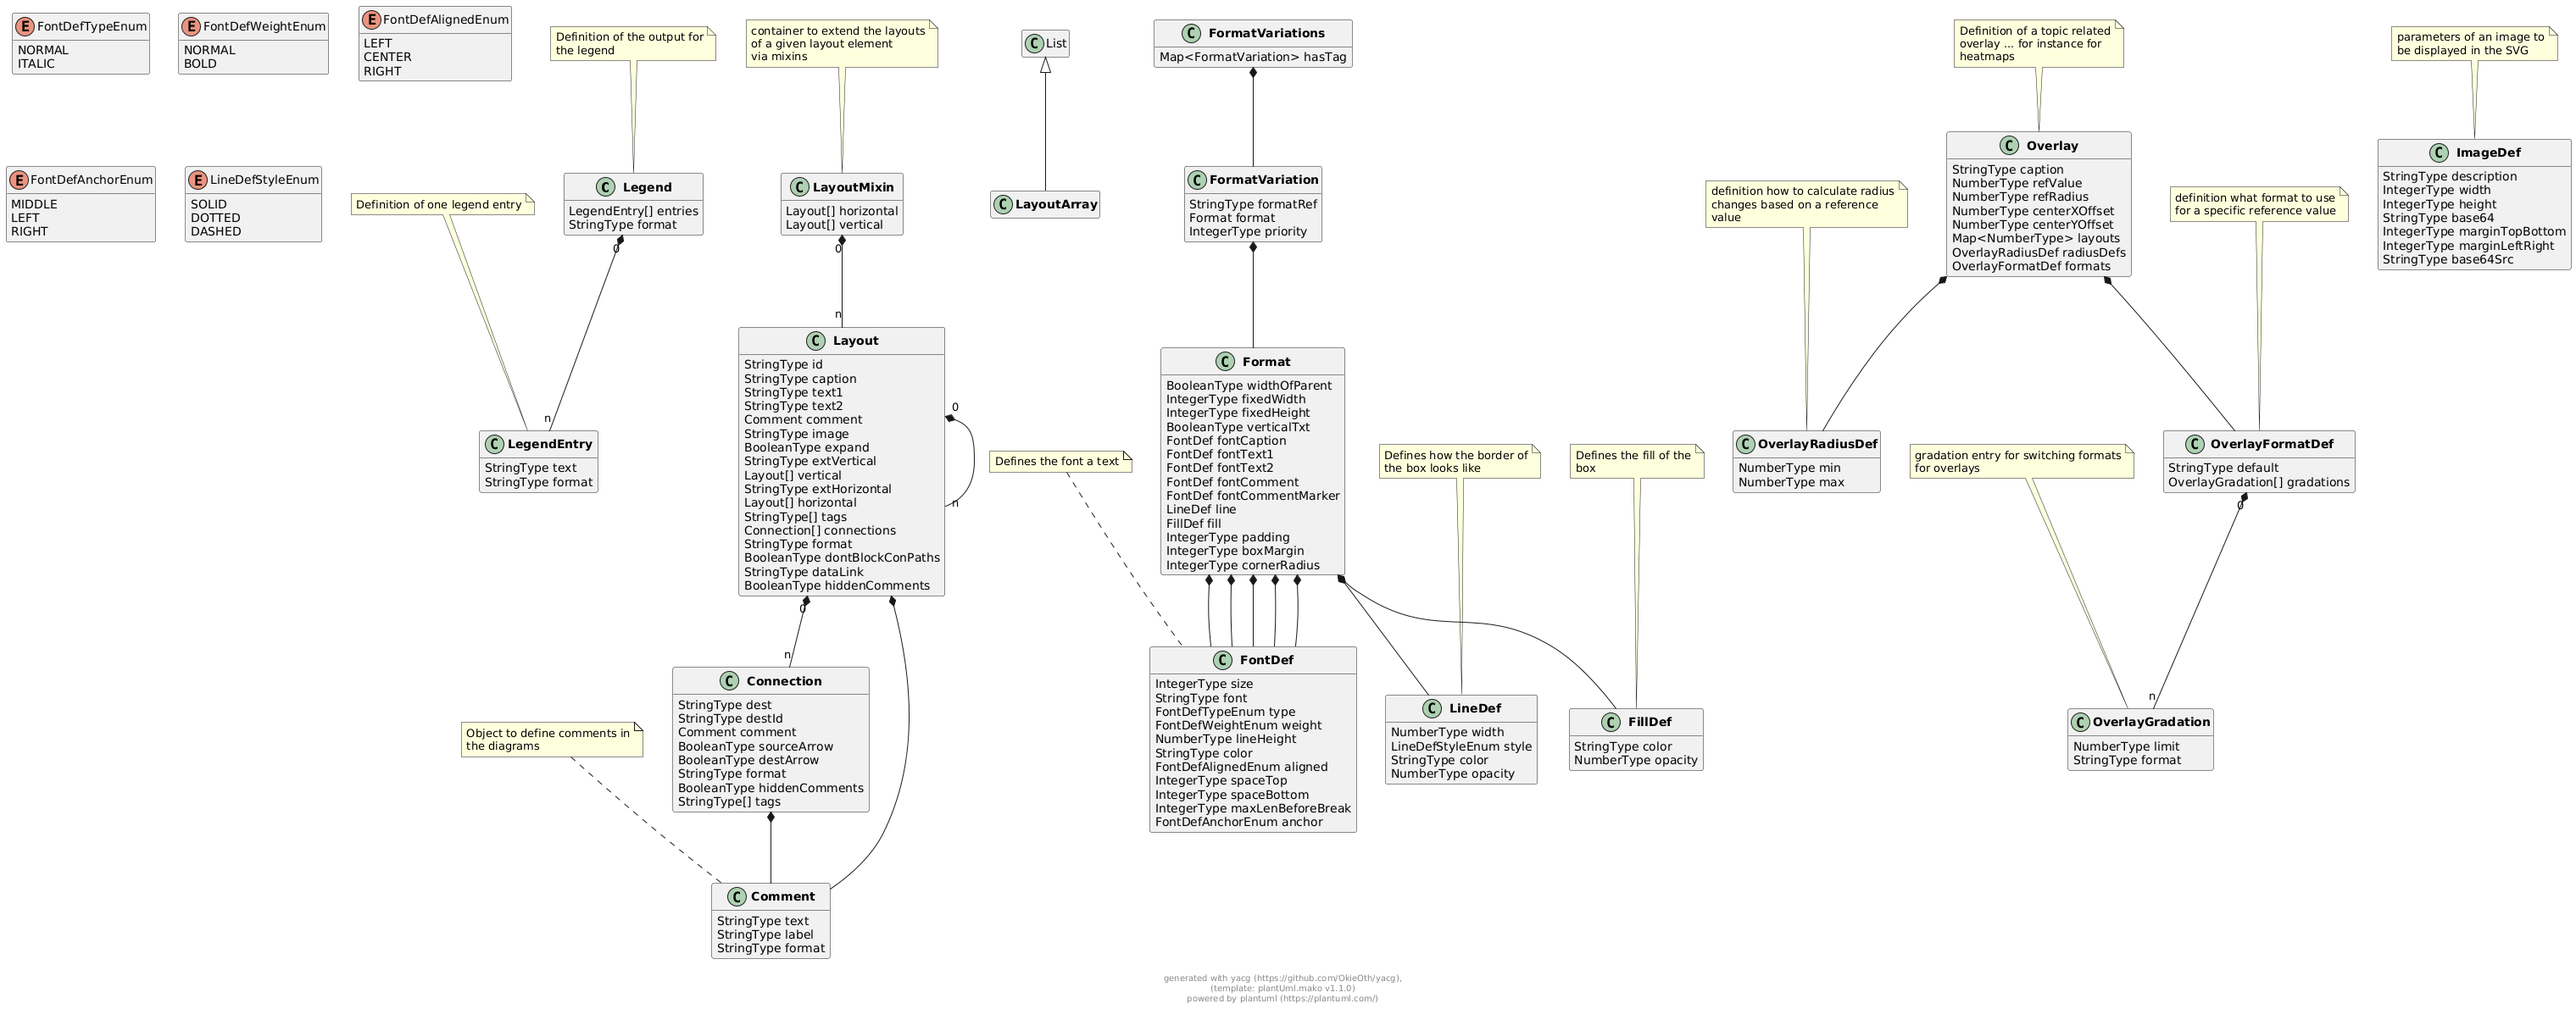
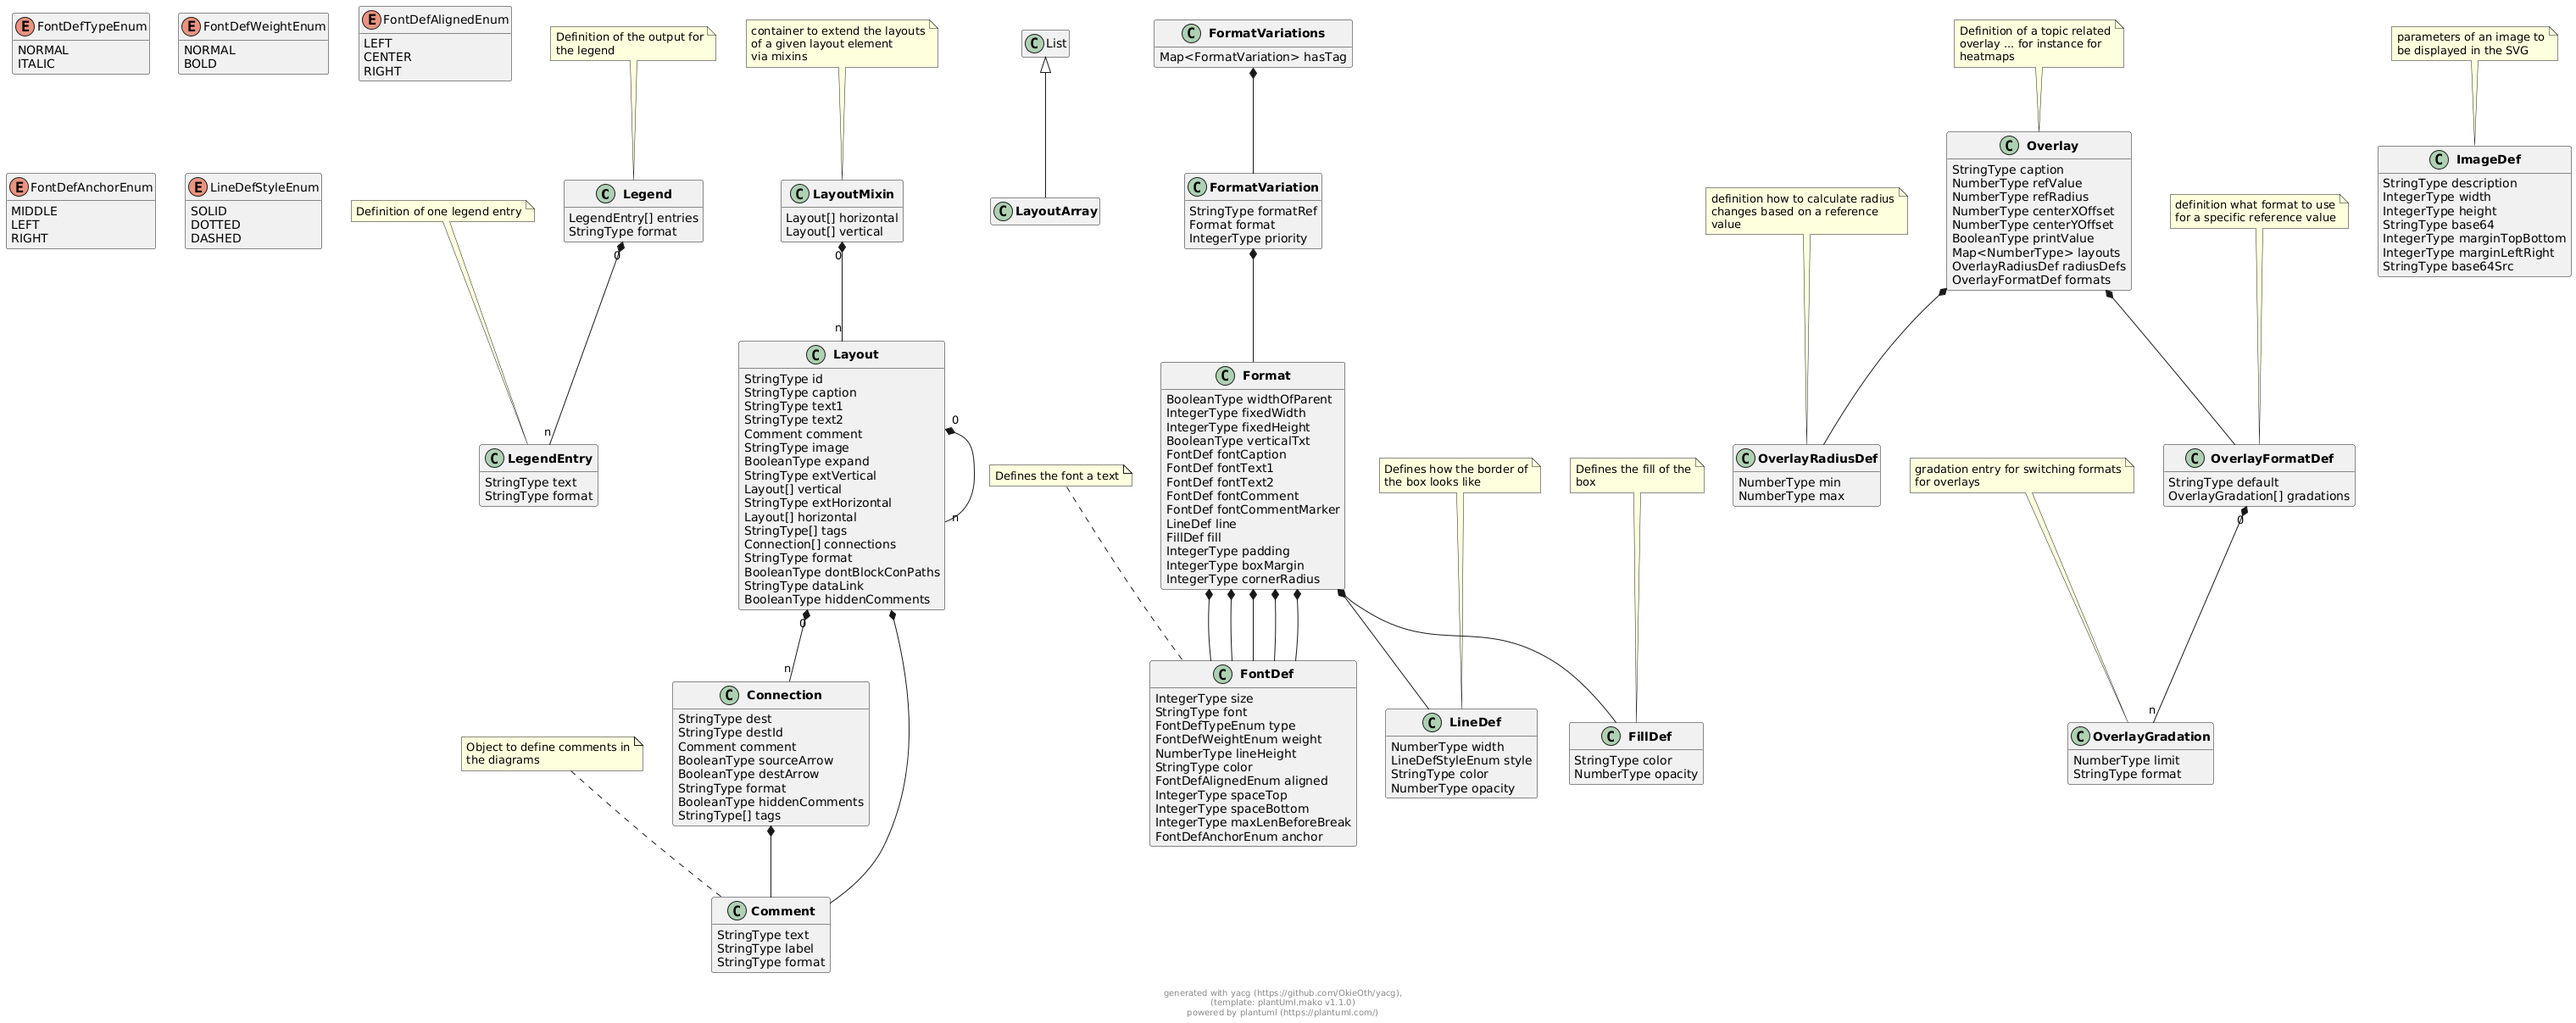
improved overlay handling in boxes

diff --git a/ui/html/js/main.js b/ui/html/js/main.js
@@ -1659,7 +1659,7 @@ async function loadSVGFromWasm() {
     // Fetch boxes.wasm with streaming fallback
     let resp;
     try {
-        resp = await fetch(window.getBasePath() + "/wasm/boxes_0.10.0.wasm", {
+        resp = await fetch(window.getBasePath() + "/wasm/boxes_0.10.1.wasm", {
             cache: "no-cache",
         });
         if (!resp.ok) throw new Error("HTTP " + resp.status);

diff --git a/ui/html/index.html b/ui/html/index.html
@@ -10,7 +10,7 @@
         </script>
         <script>
             window.uiVersion = "v1";
-            window.renderingVersion = "v0.10.0";
+            window.renderingVersion = "v0.10.1";
         </script>
 
         <script src="./js/htmx_1.9.12.min.js"></script>

diff --git a/pkg/types/boxes/boxestype_impl.go b/pkg/types/boxes/boxestype_impl.go
@@ -523,19 +523,25 @@ func (doc *BoxesDocument) DrawComments(drawing types.Drawing, c types.TextDimens
 func (doc *BoxesDocument) DrawOverlays(drawing types.Drawing, c types.TextDimensionCalculator) error {
 	if len(doc.Overlays) > 0 {
 		for i := range doc.Overlays {
-			for j := range doc.Overlays[i].Layouts {
+			o := doc.Overlays[i]
+			for j := range o.Layouts {
 				oe := doc.Overlays[i].Layouts[j]
-				drawing.DrawCircleWithBorder(oe.X, oe.Y, int(oe.Radius), oe.Format.Fill, oe.Format.Line)
-				label := fmt.Sprintf("%d", int(oe.Value))
-				size := int(oe.Radius / 5)
-				if size < 14 {
-					size = 14
+				if oe.Format.Fill == nil || oe.Format.Line == nil {
+					continue
 				}
-				labelFont := types.InitFontDef(nil, "sans", size, true, false, 0)
-				labelFont.Color = *oe.Format.Fill.Color
-				labelFont.Anchor = types.FontDefAnchorEnum_middle
-				_, h := c.Dimensions(label, &labelFont)
-				drawing.DrawText(label, oe.X, oe.Y-(h/2), 0, &labelFont)
+				drawing.DrawCircleWithBorder(oe.X, oe.Y, int(oe.Radius), oe.Format.Fill, oe.Format.Line)
+				if o.PrintValue {
+					label := fmt.Sprintf("%d", int(oe.Value))
+					size := int(oe.Radius / 5)
+					if size < 14 {
+						size = 14
+					}
+					labelFont := types.InitFontDef(nil, "sans", size, true, false, 0)
+					labelFont.Color = *oe.Format.Fill.Color
+					labelFont.Anchor = types.FontDefAnchorEnum_middle
+					_, h := c.Dimensions(label, &labelFont)
+					drawing.DrawText(label, oe.X, oe.Y-(h/2), 0, &labelFont)
+				}
 			}
 		}
 	}

diff --git a/pkg/boxesimpl/boxesimpl.go b/pkg/boxesimpl/boxesimpl.go
@@ -283,7 +283,40 @@ func FilterBoxes(layout boxes.Boxes, defaultDepth int, expanded, blacklisted []s
 	b, truncatedObjects := truncBoxes(layout.Boxes, 0, defaultDepth, expanded, blacklisted)
 	adjustTruncated(&b, truncatedObjects)
 	filteredBoxes.Boxes = b
+	adjustOverlaysWithTruncated(filteredBoxes, truncatedObjects)
 	return *filteredBoxes
+}
+
+func adjustOverlaysWithTruncated(filteredBoxes *boxes.Boxes, truncatedObjects map[string]TruncatedInfo) {
+	for i := range filteredBoxes.Overlays {
+		o := &filteredBoxes.Overlays[i]
+		newOverlays := make(map[string]float64, 0)
+		for k, v := range o.Layouts {
+			foundId := getTruncatedObject(k, truncatedObjects)
+			if foundId == "" {
+				// the layout elem still exist ...
+				if existing, ok := newOverlays[k]; ok {
+					v += existing
+				}
+				newOverlays[k] = v
+			} else {
+				if existing, ok := newOverlays[foundId]; ok {
+					v += existing
+				}
+				newOverlays[foundId] = v
+			}
+		}
+		o.Layouts = newOverlays
+	}
+}
+
+func getTruncatedObject(text string, truncatedObjects map[string]TruncatedInfo) string {
+	for _, v := range truncatedObjects {
+		if v.truncated.Id == text || v.truncated.Caption == text {
+			return v.newId
+		}
+	}
+	return ""
 }
 
 func DrawBoxesFilteredExt(

diff --git a/pkg/types/boxes/overlays.go b/pkg/types/boxes/overlays.go
@@ -61,14 +61,16 @@ func (doc *BoxesDocument) initOverlayForLayout(l *LayoutElement, overlay *DocOve
 }
 
 func (doc *BoxesDocument) initOverlayXY(l *LayoutElement, overlay *DocOverlay, overlayEntry *OverlayEntry) {
-	overlayEntry.X = l.X + (l.Width / 2)
-	overlayEntry.Y = l.Y + (l.Height / 2)
+	halfWidth := (l.Width / 2)
+	halfHeight := (l.Height / 2)
+	overlayEntry.X = l.X + halfWidth
+	overlayEntry.Y = l.Y + halfHeight
 	if overlay.CenterXOffset != 0 {
-		diff := float64((l.CenterX - l.X)) * overlay.CenterXOffset
+		diff := float64(halfWidth) * overlay.CenterXOffset
 		overlayEntry.X += int(diff)
 	}
 	if overlay.CenterYOffset != 0 {
-		diff := float64((l.CenterY - l.Y)) * overlay.CenterYOffset
+		diff := float64(halfHeight) * overlay.CenterYOffset
 		overlayEntry.Y += int(diff)
 	}
 }
@@ -99,8 +101,6 @@ func (doc *BoxesDocument) initOverlayFormat(overlay *DocOverlay, overlayEntry *O
 	if overlay.Formats.Default != "" {
 		f, ok := doc.Formats[overlay.Formats.Default]
 		if !ok {
-			f = doc.getDefaultOverlayFormat()
-		} else {
 			f = doc.getDefaultOverlayFormat()
 		}
 		format = f

diff --git a/pkg/types/boxes/boxesdoc.go b/pkg/types/boxes/boxesdoc.go
@@ -627,6 +627,9 @@ type DocOverlay struct {
     // in case of multiple overlays existing, this allows to define a percentage offset from the center-y of the related layout object
     CenterYOffset float64  `yaml:"centerYOffset"`
 
+    // if set to true, then the value is printed in the overlay
+    PrintValue bool  `yaml:"printValue"`
+
     // dictionary of layout elements, that contain this overlay. The dictionary stores the value for this specific object
     Layouts map[string]OverlayEntry  `yaml:"layouts,omitempty"`
 
@@ -652,6 +655,7 @@ func CopyDocOverlay(src *DocOverlay) *DocOverlay {
     ret.RefValue = src.RefValue
     ret.CenterXOffset = src.CenterXOffset
     ret.CenterYOffset = src.CenterYOffset
+    ret.PrintValue = src.PrintValue
     ret.Layouts = make(map[string]OverlayEntry, 0)
     for k, v := range src.Layouts {
         ret.Layouts[k] = v

diff --git a/pkg/types/boxes/boxes.go b/pkg/types/boxes/boxes.go
@@ -358,6 +358,9 @@ type Overlay struct {
     // in case of multiple overlays existing, this allows to define a percentage offset from the center-y of the related layout object
     CenterYOffset float64  `yaml:"centerYOffset"`
 
+    // if set to true, then the value is printed in the overlay
+    PrintValue bool  `yaml:"printValue"`
+
     // dictionary of layout elements, that contain this overlay. The dictionary stores the value for this specific object
     Layouts map[string]float64  `yaml:"layouts,omitempty"`
 
@@ -384,6 +387,7 @@ func CopyOverlay(src *Overlay) *Overlay {
     ret.RefRadius = src.RefRadius
     ret.CenterXOffset = src.CenterXOffset
     ret.CenterYOffset = src.CenterYOffset
+    ret.PrintValue = src.PrintValue
     ret.Layouts = make(map[string]float64, 0)
     for k, v := range src.Layouts {
         ret.Layouts[k] = v

diff --git a/pkg/boxesimpl/boxesdocfactory.go b/pkg/boxesimpl/boxesdocfactory.go
@@ -434,6 +434,7 @@ func initOverlays(b *boxes.Boxes, doc *boxes.BoxesDocument) error {
 			newOverlay.RefValue = o.RefValue
 			newOverlay.CenterXOffset = o.CenterXOffset
 			newOverlay.CenterYOffset = o.CenterYOffset
+			newOverlay.PrintValue = o.PrintValue
 			if o.Formats != nil {
 				newOverlay.Formats = o.Formats
 				slices.SortFunc(newOverlay.Formats.Gradations, func(c1, c2 boxes.OverlayGradation) int {

diff --git a/cmd/sub/version.go b/cmd/sub/version.go
@@ -6,7 +6,7 @@ import (
 	"github.com/spf13/cobra"
 )
 
-const Version = "0.10.1"
+const Version = "0.11.0"
 
 var VersionCmd = &cobra.Command{
 	Use:   "version",

diff --git a/CHANGELOG.md b/CHANGELOG.md
@@ -1,3 +1,7 @@
+# v0.11.0
+## Boxes
+* imroved overlay handling
+
 # v0.10.0
 ## Boxes
 * sticky tags that are not copied in truncated layouts
